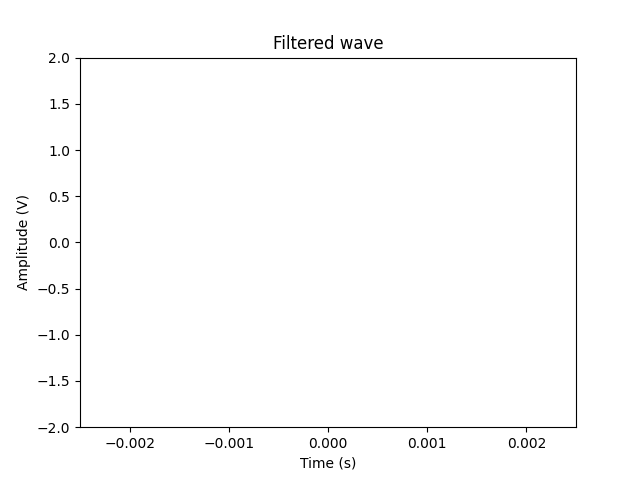
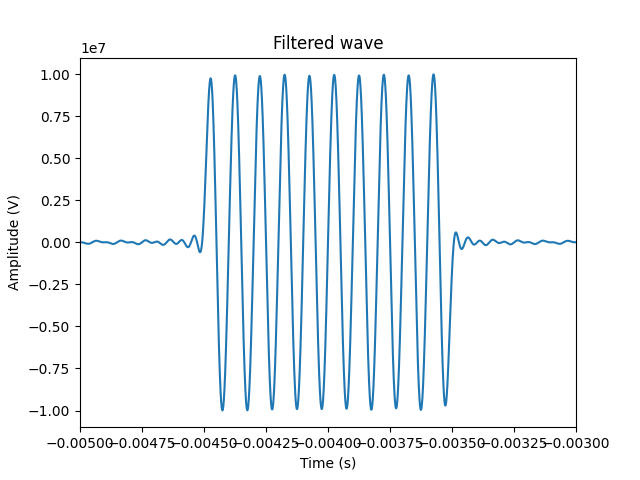
saving

diff --git a/filter_example.py b/filter_example.py
@@ -48,9 +48,9 @@ def calculate_fft(sampled_wave, sampling_frequency, fft_size):
 
 def mulitply_ffts(dft_real_im_wave, dft_real_im_sinc, time_range):
 
-    fft_both = np.multiply(dft_real_im_wave,dft_real_im_sinc)
+    fft_both = dft_real_im_wave*dft_real_im_sinc
     abs_fft_both = abs(fft_both)
-    filtered_wave = abs(np.fft.ifft((np.fft.ifftshift(fft_both)), n=len(time_range)))
+    filtered_wave = np.fft.ifft((np.fft.ifftshift(fft_both)), n=len(time_range))
 
     return (abs_fft_both, filtered_wave)
 
@@ -114,6 +114,6 @@ plt.plot(time_range, filtered_wave)
 plt.xlabel("Time (s)")
 plt.ylabel('Amplitude (V)')
 plt.title("Filtered wave")
-plt.xlim(-time_duration/4, time_duration/4)
-plt.ylim(-2,2)
+plt.xlim(-.005, -.003)
+# plt.ylim(-2,2)
 plt.savefig("filtered_wave.png")
